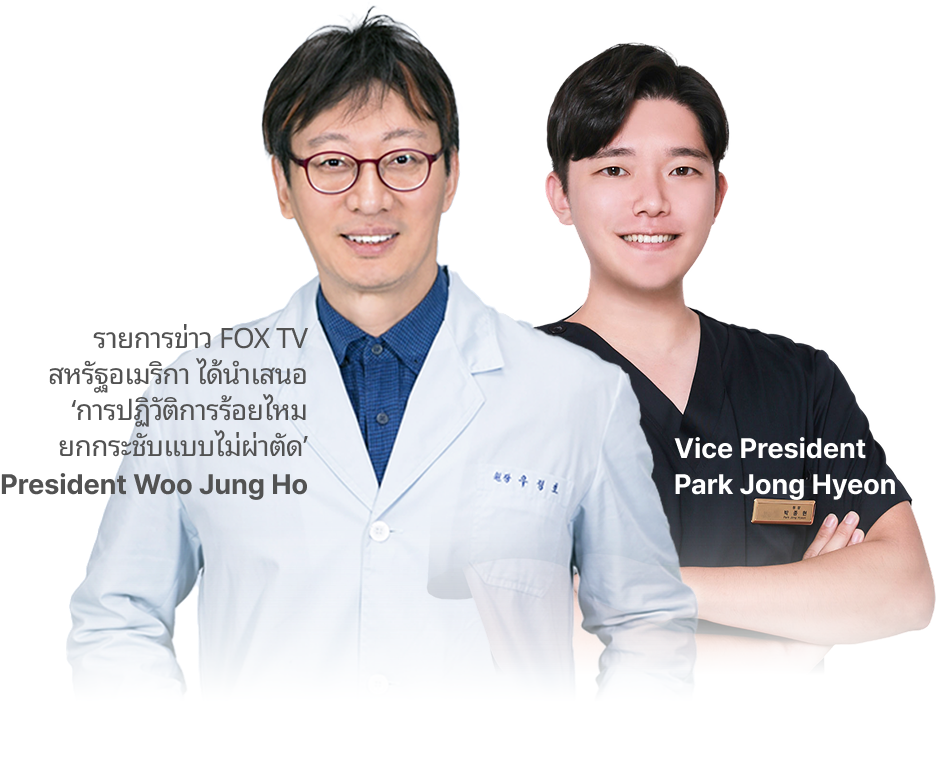
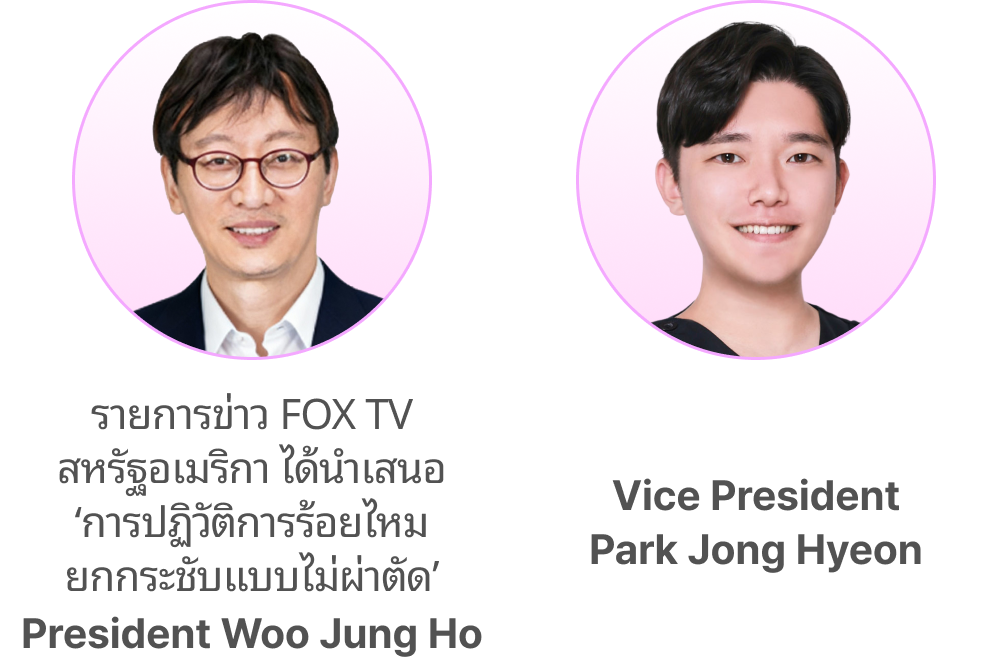
feat: 회사소개 페이지 이미지 및 레이아웃 개선
- K-DOC을 만드는 사람들 이미지 업데이트 (한국어, 영어, 태국어)
- 타이틀과 이미지 간 여백 24px로 조정
- 이미지와 설명 텍스트 간 여백 12px로 조정
- 이미지 고정 크기 제한 제거하여 반응형으로 개선

diff --git a/features/about/ui/AboutHero.tsx b/features/about/ui/AboutHero.tsx
@@ -28,13 +28,13 @@ export function AboutHero({ lang, dict }: AboutHeroProps) {
       <div className='mt-8'>
         <h2 className='text-primary text-2xl font-bold'>{dict.about.subtitle}</h2>
       </div>
-      <div className='md:mt-8'>
+      <div className='mt-6'>
         <Image
           src={getImageSrc(lang)}
           alt={dict.about.subtitle}
           width={468}
           height={387}
-          className='h-[387px] w-full max-w-[468px] object-contain'
+          className='w-full object-contain'
           priority
         />
       </div>

diff --git a/features/about/ui/AboutDescription.tsx b/features/about/ui/AboutDescription.tsx
@@ -7,7 +7,7 @@ interface AboutDescriptionProps {
 
 export function AboutDescription({ dict }: AboutDescriptionProps) {
   return (
-    <div className='-mt-30'>
+    <div className='mt-3'>
       <GlassCard>
         <p className='text-sm leading-5 font-normal text-[#525252]'>
           {dict.about.description.part1}
